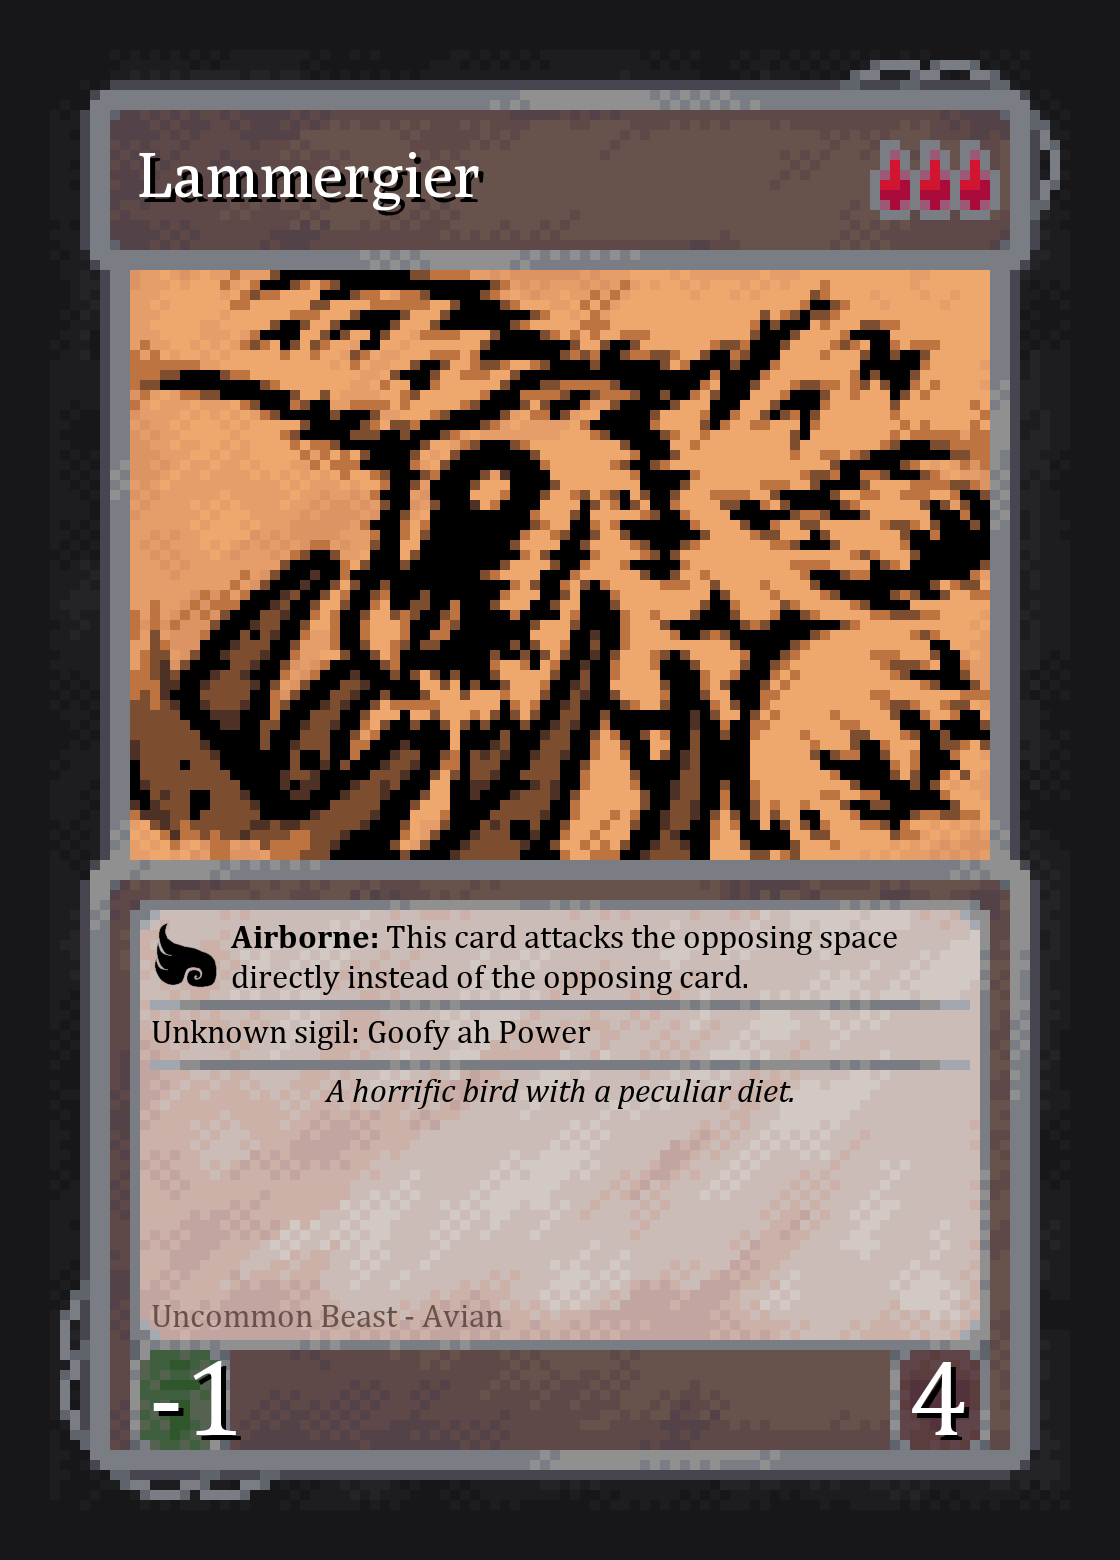
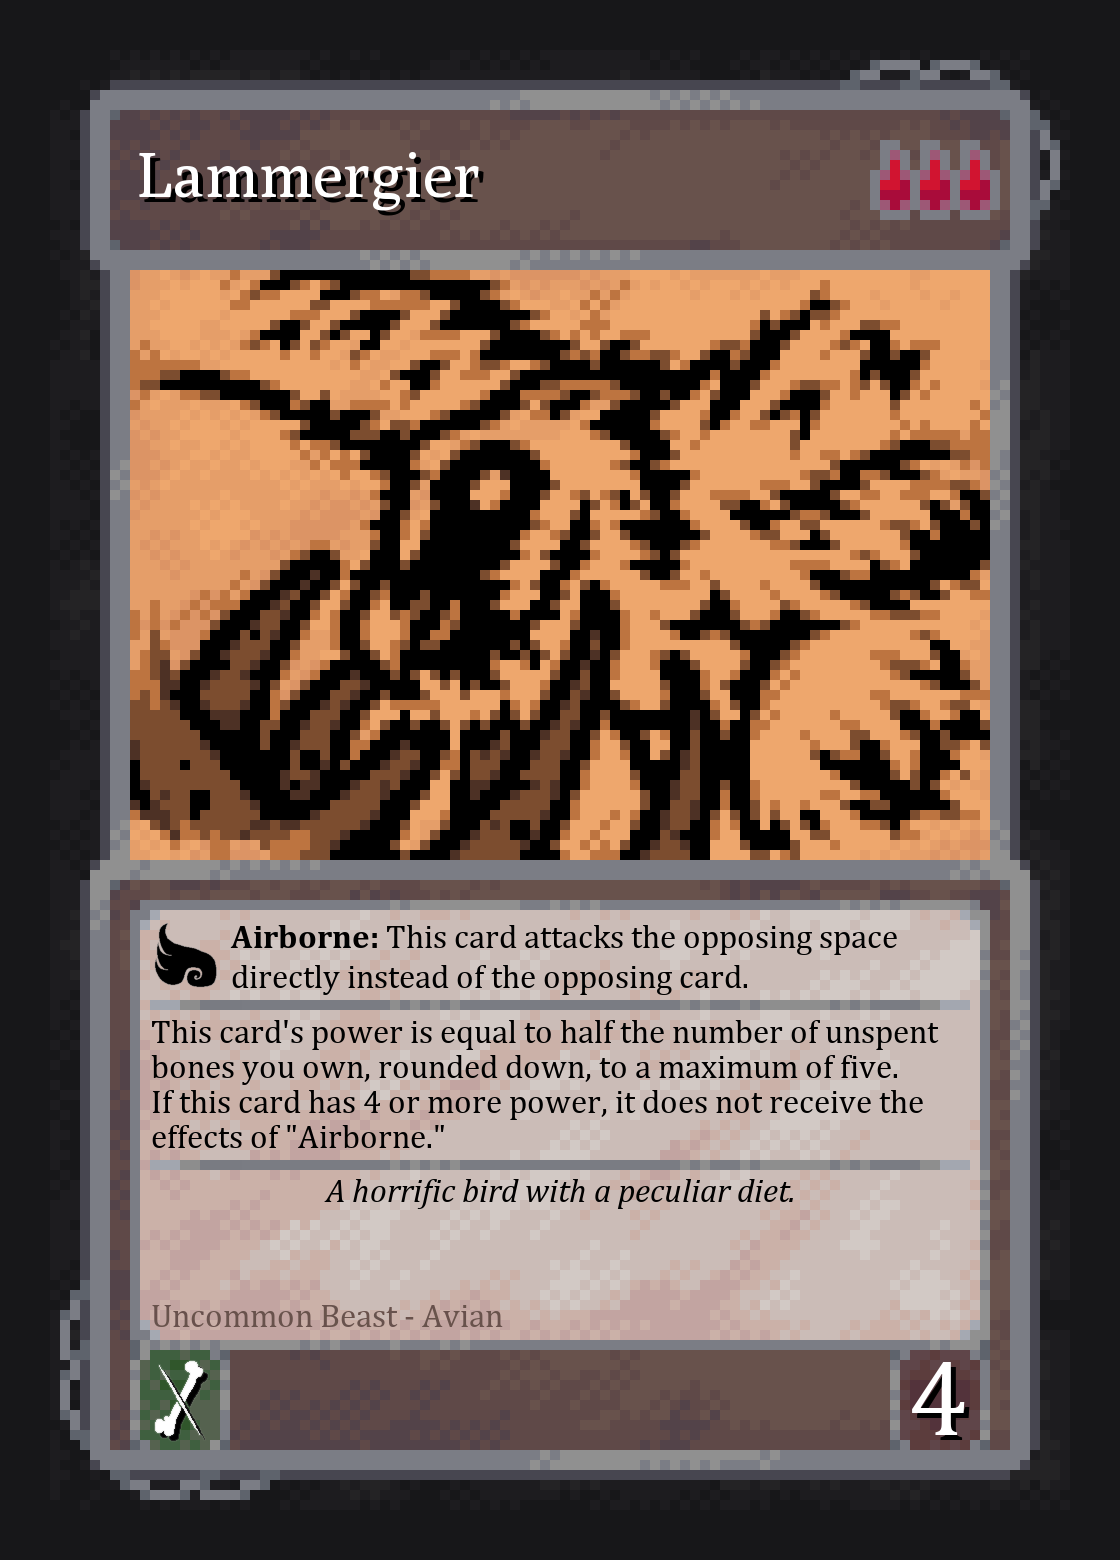
script now support arbitrary variable power levels

Changed region(s): [[0.125, 0.6462, 0.875, 0.7692], [0.125, 0.8615, 0.2188, 0.9231]]

diff --git a/addtext.py b/addtext.py
@@ -6,48 +6,6 @@ import math
 import pandas as pd
 import sys
 
-"""
-SHEET_ID = "1tvTXSsFDK5xAVALQPdDPJOitBufJE6UB_MN4q5nbLXk"
-SHEET_NAME = "CARDSHEET"
-url_base = f"https://docs.google.com/spreadsheets/d/"
-url_base += SHEET_ID+"/gviz/tq?tqx=out:csv&sheet="
-sigils_url = url_base+"Sigils"
-cards_url = url_base+"Cards"
-
-
-# constant parameters
-
-# min # of cost to show as number instead of draw
-COSTTHRESH = {
-    "blood": 5,
-    "bone": 5,
-    "energy": 13,
-
-    "shattered garnet": 4,
-    "shattered ruby": 4,
-    "shattered topaz": 4,
-    "shattered emerald": 4,
-    "shattered sapphire": 4,
-    "shattered amethyst": 4,
-    
-    "garnet": 4,
-    "ruby": 4,
-    "topaz": 4,
-    "emerald": 4,
-    "sapphire": 4,
-    "amethyst": 4,
-    
-    "clowny": 1,
-    "nuclear": 1,
-    "malware": 1,
-    "pure": 1
-}
-
-TOKENSIGILS = ["Fledgling","Frozen Away","Creeping Outwards","Loose Tail"]
-
-SIGILCOLUMNS = [6,7,8] # list of column indicies that have sigils (0-indexed)
-"""
-
 from printer_config import *
 
 # fonts
@@ -372,24 +330,17 @@ def printCard(info,savePath="output",show=False,prefix="01x 001 "):
     if True:
         # variable stat checker
         # hardcoded unfortunately
-        if "Ant Power" in info["traits"]:
-            alphaPaste(img,144,1351,"sigils/variable/Ant Power.png")
-        elif "Battery Power" in info["traits"]:
-            alphaPaste(img,144,1351,"sigils/variable/Battery Power.png")
-        elif "Blood Power" in info["traits"]:
-            alphaPaste(img,144,1351,"sigils/variable/Blood Power.png")
-        elif "Bone Power" in info["traits"]:
-            alphaPaste(img,144,1351,"sigils/variable/Bone Power.png")
-        elif "Gem Power" in info["traits"]:
-            alphaPaste(img,142,1351,"sigils/variable/Gem Power.png")
-        elif "Mirror Power" in info["traits"]:
-            alphaPaste(img,144,1351,"sigils/variable/Mirror Power.png")
-        elif "Hand Power" in info["traits"]:
-            alphaPaste(img,142,1351,"sigils/variable/Hand Power.png")
-        elif "Dice Power"in info["traits"]:
-            alphaPaste(img,142,1351,"sigils/variable/Dice Power.png")
+        print(info["traits"])
+        if info["traits"] != []:
+            powerName = info["traits"][0]
+
+            try:
+                alphaPaste(img,144,1351,"sigils/variable/"+powerName+".png")
+            except FileNotFoundError:
+                print("unknown variable power: "+powerName)
+                shadowText(I1,148,1331,str(int(info["power"])),statFont,anchor="la")
+            # end try
         else:
-            #shadowText(I1,151,1331,"X",statFont,anchor="la")
             shadowText(I1,148,1331,str(int(info["power"])),statFont,anchor="la")
         # end if
     # end if
